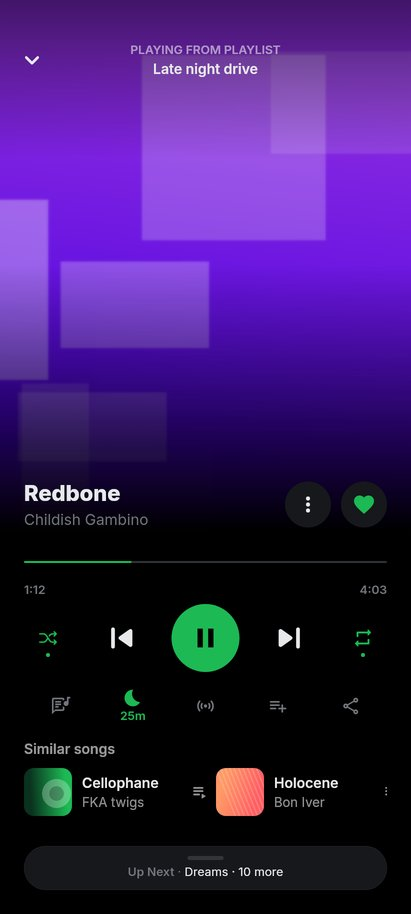
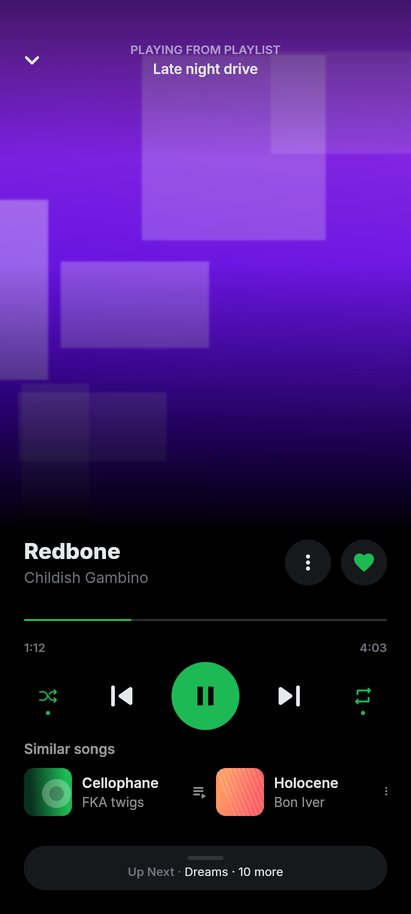
1.7.146: player buttons moved into the ⋮ menu (#129)
* Now-playing ⋮ sheet: lyrics and sleep timer under the quick actions

PlayerToolTiles shows Show/Hide lyrics and the sleep timer (time left
while it runs) when the sheet is opened from the full player; the lower
sleep timer row is hidden there so it isn't listed twice.

Claude-Session: https://claude.ai/code/session_01QqANA2KoyktcKRw8NbVQ7X

* Music player: drop the action row under the transport

Lyrics, sleep timer, radio, add to playlist and share are all in the ⋮
sheet now; the podcast row is unchanged.

Claude-Session: https://claude.ai/code/session_01QqANA2KoyktcKRw8NbVQ7X

* 1.7.146: changelog, version, player screenshots, SKIPPED entry

Claude-Session: https://claude.ai/code/session_01QqANA2KoyktcKRw8NbVQ7X

---------

diff --git a/lib/ui/widgets/songinfo_bottom_sheet.dart b/lib/ui/widgets/songinfo_bottom_sheet.dart
@@ -17,6 +17,7 @@ import '../screens/Playlist/playlist_screen_controller.dart';
 import '/utils/helper.dart';
 import '/services/piped_service.dart';
 import '/ui/widgets/sleep_timer_bottom_sheet.dart';
+import '/ui/player/components/player_control.dart' show sleepTimerBadge;
 import '/ui/player/player_controller.dart';
 import '../screens/Library/library_controller.dart';
 import '/ui/widgets/add_to_playlist.dart';
@@ -63,11 +64,16 @@ class SongInfoBottomSheet extends StatelessWidget {
       {super.key,
       this.playlist,
       this.calledFromPlayer = false,
-      this.calledFromQueue = false});
+      this.calledFromQueue = false,
+      this.showPlayerTools = false});
   final MediaItem song;
   final Playlist? playlist;
   final bool calledFromPlayer;
   final bool calledFromQueue;
+
+  /// The full player's ⋮: lyrics and the sleep timer sit right under the
+  /// quick actions, since the player has no button row of its own.
+  final bool showPlayerTools;
 
   /// Reuses the sheet's controller across rebuilds (Get.put in build used to
   /// construct — and run the Hive lookups of — a throwaway controller every
@@ -230,6 +236,7 @@ class SongInfoBottomSheet extends StatelessWidget {
               ),
             ]),
             const SizedBox(height: RiffSpacing.xs),
+            if (showPlayerTools) const PlayerToolTiles(),
             RiffSheetTile(
               icon: Icons.graphic_eq_rounded,
               title: "similarSongs".tr,
@@ -352,17 +359,18 @@ class SongInfoBottomSheet extends StatelessWidget {
                     )
                   : const SizedBox.shrink(),
             ),
-            RiffSheetTile(
-              icon: Icons.bedtime_outlined,
-              title: "sleepTimer".tr,
-              onTap: () {
-                Navigator.of(context).pop();
-                final sheetContext =
-                    playerController.homeScaffoldkey.currentContext ??
-                        Get.context;
-                showSleepTimerSheet(sheetContext);
-              },
-            ),
+            if (!showPlayerTools)
+              RiffSheetTile(
+                icon: Icons.bedtime_outlined,
+                title: "sleepTimer".tr,
+                onTap: () {
+                  Navigator.of(context).pop();
+                  final sheetContext =
+                      playerController.homeScaffoldkey.currentContext ??
+                          Get.context;
+                  showSleepTimerSheet(sheetContext);
+                },
+              ),
             // Open in YouTube / YouTube Music / WizeStream.
             Padding(
               padding: const EdgeInsets.only(
@@ -488,6 +496,48 @@ class SongInfoBottomSheet extends StatelessWidget {
           },
         ),
     ];
+  }
+}
+
+/// Lyrics on/off and the sleep timer (with the time left while it runs),
+/// for the full player's ⋮ sheet. Both close the sheet.
+class PlayerToolTiles extends StatelessWidget {
+  const PlayerToolTiles({super.key});
+
+  @override
+  Widget build(BuildContext context) {
+    final playerController = Get.find<PlayerController>();
+    return Obx(() {
+      final lyricsOn = playerController.showLyricsflag.isTrue;
+      final sleepOn = playerController.isSleepTimerActive.isTrue;
+      final left = sleepTimerBadge(playerController.timerDurationLeft.value);
+      return Column(
+        mainAxisSize: MainAxisSize.min,
+        crossAxisAlignment: CrossAxisAlignment.stretch,
+        children: [
+          RiffSheetTile(
+            icon: lyricsOn ? Icons.lyrics : Icons.lyrics_outlined,
+            title: (lyricsOn ? "hideLyrics" : "showLyrics").tr,
+            onTap: () {
+              Navigator.of(context).pop();
+              if (!lyricsOn) HapticFeedback.lightImpact();
+              playerController.showLyrics();
+            },
+          ),
+          RiffSheetTile(
+            icon: sleepOn ? Icons.bedtime : Icons.bedtime_outlined,
+            title: "sleepTimer".tr,
+            subtitle: sleepOn && left.isNotEmpty ? '$left ${"left".tr}' : null,
+            onTap: () {
+              Navigator.of(context).pop();
+              showSleepTimerSheet(
+                  playerController.homeScaffoldkey.currentContext ??
+                      Get.context);
+            },
+          ),
+        ],
+      );
+    });
   }
 }
 

diff --git a/lib/ui/player/components/player_control.dart b/lib/ui/player/components/player_control.dart
@@ -9,21 +9,17 @@ import '/ui/screens/Podcasts/podcast_segment_ui.dart';
 
 import '/ui/screens/Podcasts/podcast_playback_controls.dart';
 import 'package:ionicons/ionicons.dart';
-import 'package:share_plus/share_plus.dart';
 import 'package:widget_marquee/widget_marquee.dart';
 
 import '/ui/player/components/animated_play_button.dart';
 import '/services/podcast_transcripts.dart';
 import '/ui/player/components/podcast_transcript_sheet.dart';
 import '/ui/utils/theme_controller.dart';
-import '/utils/content_filters.dart';
 import '/services/podcast_service.dart' show PodcastChapter;
 import '../../screens/Settings/settings_screen_controller.dart';
-import '../../widgets/add_to_playlist.dart';
 import '../../widgets/discovery/player_similar_row.dart';
 import '../../widgets/favorite_heart_button.dart';
 import '../../widgets/sleep_timer_bottom_sheet.dart';
-import '../../widgets/snackbar.dart';
 import '../chapter_marks.dart';
 import '../player_controller.dart';
 import '../radio_continuation.dart';
@@ -89,10 +85,14 @@ class PlayerControlWidget extends StatelessWidget {
           Obx(() => playerController.usesLongFormTransport
               ? _podcastControls(playerController, context)
               : _musicControls(playerController, context)),
-          const SizedBox(height: 10),
+          // Music has no button row: lyrics, sleep timer, radio, add to
+          // playlist and share are in the ⋮ sheet.
           Obx(() => playerController.usesLongFormTransport
-              ? _podcastActions(playerController, context)
-              : _musicActions(playerController, context)),
+              ? Padding(
+                  padding: const EdgeInsets.only(top: 10),
+                  child: _podcastActions(playerController, context),
+                )
+              : const SizedBox.shrink()),
           // Similar songs are music-only, and only where the cover keeps
           // most of the screen.
           Obx(() => playerController.usesLongFormTransport ||
@@ -103,56 +103,6 @@ class PlayerControlWidget extends StatelessWidget {
                   child: PlayerSimilarRow(),
                 )),
         ]);
-  }
-
-  /// Lyrics · sleep timer · radio · add to playlist · share. Everything
-  /// else for the song is in the ⋮ sheet.
-  Widget _musicActions(
-      PlayerController playerController, BuildContext context) {
-    final song = playerController.currentSong.value;
-    return PlayerActionBar(actions: [
-      PlayerAction(
-        icon: Icons.lyrics_outlined,
-        activeIcon: Icons.lyrics,
-        tooltip: 'lyrics'.tr,
-        active: playerController.showLyricsflag.isTrue,
-        onTap: () {
-          if (playerController.showLyricsflag.isFalse) {
-            HapticFeedback.lightImpact();
-          }
-          playerController.showLyrics();
-        },
-      ),
-      _sleepAction(playerController, context),
-      PlayerAction(
-        icon: Icons.sensors_rounded,
-        tooltip: 'startRadio'.tr,
-        onTap: song == null
-            ? null
-            : () async {
-                final ok = await playerController.startRadio(song);
-                if (!context.mounted || ok) return;
-                ScaffoldMessenger.of(context).showSnackBar(snackbar(
-                  context,
-                  "radioNotAvailable".tr,
-                  size: SanckBarSize.MEDIUM,
-                ));
-              },
-      ),
-      PlayerAction(
-        icon: Icons.playlist_add_rounded,
-        tooltip: 'addToPlaylist'.tr,
-        onTap:
-            song == null ? null : () => showAddToPlaylistSheet(context, [song]),
-      ),
-      PlayerAction(
-        icon: Icons.share_outlined,
-        tooltip: 'shareSong'.tr,
-        onTap: song == null
-            ? null
-            : () => Share.share(SongLinkShare.shareText(song)),
-      ),
-    ]);
   }
 
   /// Autoplay · shownotes · chapters · transcript · sleep timer.

diff --git a/test/player/player_tool_tiles_test.dart b/test/player/player_tool_tiles_test.dart
@@ -1,0 +1,90 @@
+import 'package:flutter/material.dart';
+import 'package:flutter_test/flutter_test.dart';
+import 'package:get/get.dart';
+import 'package:harmonymusic/ui/player/player_controller.dart';
+import 'package:harmonymusic/ui/theme/riff_theme.dart';
+import 'package:harmonymusic/ui/widgets/songinfo_bottom_sheet.dart';
+
+class _FakePlayer extends GetxController implements PlayerController {
+  @override
+  final showLyricsflag = false.obs;
+  @override
+  final isSleepTimerActive = false.obs;
+  @override
+  final timerDurationLeft = 0.obs;
+  @override
+  final GlobalKey<ScaffoldState> homeScaffoldkey = GlobalKey<ScaffoldState>();
+
+  int lyricsToggles = 0;
+
+  @override
+  Future<void> showLyrics() async {
+    lyricsToggles++;
+    showLyricsflag.toggle();
+  }
+
+  @override
+  dynamic noSuchMethod(Invocation invocation) => super.noSuchMethod(invocation);
+}
+
+/// Opens the tiles in a bottom sheet, the way the player's ⋮ does.
+Future<void> _open(WidgetTester tester) async {
+  await tester.tap(find.text('open'));
+  await tester.pumpAndSettle();
+}
+
+void main() {
+  late _FakePlayer player;
+
+  setUp(() {
+    Get.reset();
+    player = Get.put<PlayerController>(_FakePlayer()) as _FakePlayer;
+  });
+  tearDown(Get.reset);
+
+  Future<void> pumpApp(WidgetTester tester) => tester.pumpWidget(MaterialApp(
+        theme: RiffTheme.dark(const Color(0xFF1DB954)),
+        home: Builder(
+          builder: (context) => Scaffold(
+            body: TextButton(
+              onPressed: () => showModalBottomSheet(
+                context: context,
+                builder: (_) => const PlayerToolTiles(),
+              ),
+              child: const Text('open'),
+            ),
+          ),
+        ),
+      ));
+
+  testWidgets('lyrics toggle closes the sheet and flips its label',
+      (tester) async {
+    await pumpApp(tester);
+    await _open(tester);
+    // No translations loaded here, so labels show their keys.
+    expect(find.text('showLyrics'), findsOneWidget);
+    expect(find.byIcon(Icons.lyrics_outlined), findsOneWidget);
+
+    await tester.tap(find.text('showLyrics'));
+    await tester.pumpAndSettle();
+    expect(player.lyricsToggles, 1);
+    expect(find.byType(PlayerToolTiles), findsNothing);
+
+    await _open(tester);
+    expect(find.text('hideLyrics'), findsOneWidget);
+    expect(find.byIcon(Icons.lyrics), findsOneWidget);
+  });
+
+  testWidgets('sleep timer shows the time left while it runs', (tester) async {
+    await pumpApp(tester);
+    await _open(tester);
+    expect(find.text('sleepTimer'), findsOneWidget);
+    expect(find.textContaining('left'), findsNothing);
+
+    player.isSleepTimerActive.value = true;
+    player.timerDurationLeft.value = 1500;
+    await tester.pump();
+    expect(find.text('25m left'), findsOneWidget);
+    expect(find.byIcon(Icons.bedtime), findsOneWidget);
+  });
+}

diff --git a/lib/ui/player/components/standard_player.dart b/lib/ui/player/components/standard_player.dart
@@ -401,8 +401,8 @@ class _HeroArtRegion extends StatelessWidget {
   return (type: type, name: name);
 }
 
-/// Song options for the current track (radio, play next, share, sleep
-/// timer, album / artist …).
+/// Song options for the current track: radio, play next, add to playlist,
+/// share, lyrics, sleep timer, album / artist …
 void openNowPlayingSheet(PlayerController playerController) {
   final sheetContext =
       playerController.homeScaffoldkey.currentContext ?? Get.context;
@@ -413,6 +413,7 @@ void openNowPlayingSheet(PlayerController playerController) {
     constraints: const BoxConstraints(maxWidth: 500),
     isScrollControlled: true,
     context: sheetContext,
-    builder: (context) => SongInfoBottomSheet(song, calledFromPlayer: true),
+    builder: (context) => SongInfoBottomSheet(song,
+        calledFromPlayer: true, showPlayerTools: true),
   ).whenComplete(() => Get.delete<SongInfoController>());
 }

diff --git a/lib/utils/get_localization.dart b/lib/utils/get_localization.dart
@@ -5777,7 +5777,9 @@ Map<String, Map<String, String>> get keys => {
     "recognizeRecent": "Recent finds",
     "recognizeCredit": "Recognition by Shazam, the way Audire does it",
     "recognizeOnlyAndroid": "Song recognition works on Android only.",
-    "recognizeRemove": "Remove from recent finds"
+    "recognizeRemove": "Remove from recent finds",
+    "showLyrics": "Show lyrics",
+    "hideLyrics": "Hide lyrics"
 }
 ,"pt" : {
     "renamePlaylist": "Renomear Playlist",

diff --git a/lib/utils/app_version.dart b/lib/utils/app_version.dart
@@ -5,7 +5,7 @@ import 'package:package_info_plus/package_info_plus.dart';
 ///
 /// MUST stay in sync with `version:` in pubspec.yaml — `test/app_version_test.dart`
 /// asserts this, so a bumped pubspec with a stale constant fails the suite.
-const String kPubspecAppVersion = '1.7.145';
+const String kPubspecAppVersion = '1.7.146';
 
 /// Splits any version-ish string into exactly three numeric parts.
 ///

diff --git a/docs/redesign/SKIPPED.md b/docs/redesign/SKIPPED.md
@@ -45,6 +45,7 @@ elements (or can't be done on this SDK), and what was done instead.
 | 8 | Sleep-timer countdown tabular figures | A non-colour `copyWith` (fontFeatures) kept so the digits don't jitter | kept |
 | 3 (revised after 1.7.142) | Rail: no indicator, outline/filled glyphs 24, 11/600 labels, right hairline | The owner preferred the pre-restyle rail | pre-restyle rail look restored: accent box (16% fill, 28% outline) behind the active glyph, muted inactive items, titleMedium/bodyLarge labels, no right hairline; width 47, items, order and the selection haptic unchanged |
 | 6 (revised after 1.7.144) | Full-width 65 dp queue strip (handle, "Up Next" and the next song on two lines, hairline top) | The owner asked for it smaller and rounded | a 44 dp floating card in the mini player's style (surface1, hairline edge, radius 24), 24 dp side margins in line with the player content and clear of the system inset; handle kept, "Up Next" and the next song on one line; the queue fades in as it opens; tap and drag unchanged |
+| 6 (revised after 1.7.145) | Music player action row under the transport (lyrics, sleep timer, radio, add to playlist, share) | The owner asked for all of them under the ⋮ | row removed from the music player; the ⋮ sheet already had radio, add to playlist and share, and now opens with Show/Hide lyrics and Sleep timer (time left as subtitle while it runs) under its quick actions; the podcast/audiobook and gesture players keep their rows |
 
 ## Known side effects of Phase 1 (to settle in later phases)
 

diff --git a/CHANGELOG.md b/CHANGELOG.md
@@ -1,3 +1,13 @@
+# 1.7.146
+
+**Player buttons moved into ⋮**
+* The row of buttons under the song (lyrics, sleep timer, radio, add to
+  playlist, share) is gone; the cover gets the room
+* All five are in the ⋮ menu next to the song title: Start radio, Add to
+  playlist and Share at the top as before, then Show/Hide lyrics and Sleep
+  timer, which shows the time left while it runs
+* Tapping the cover still shows the lyrics
+
 # 1.7.145
 
 **A smaller, rounded Up Next**
